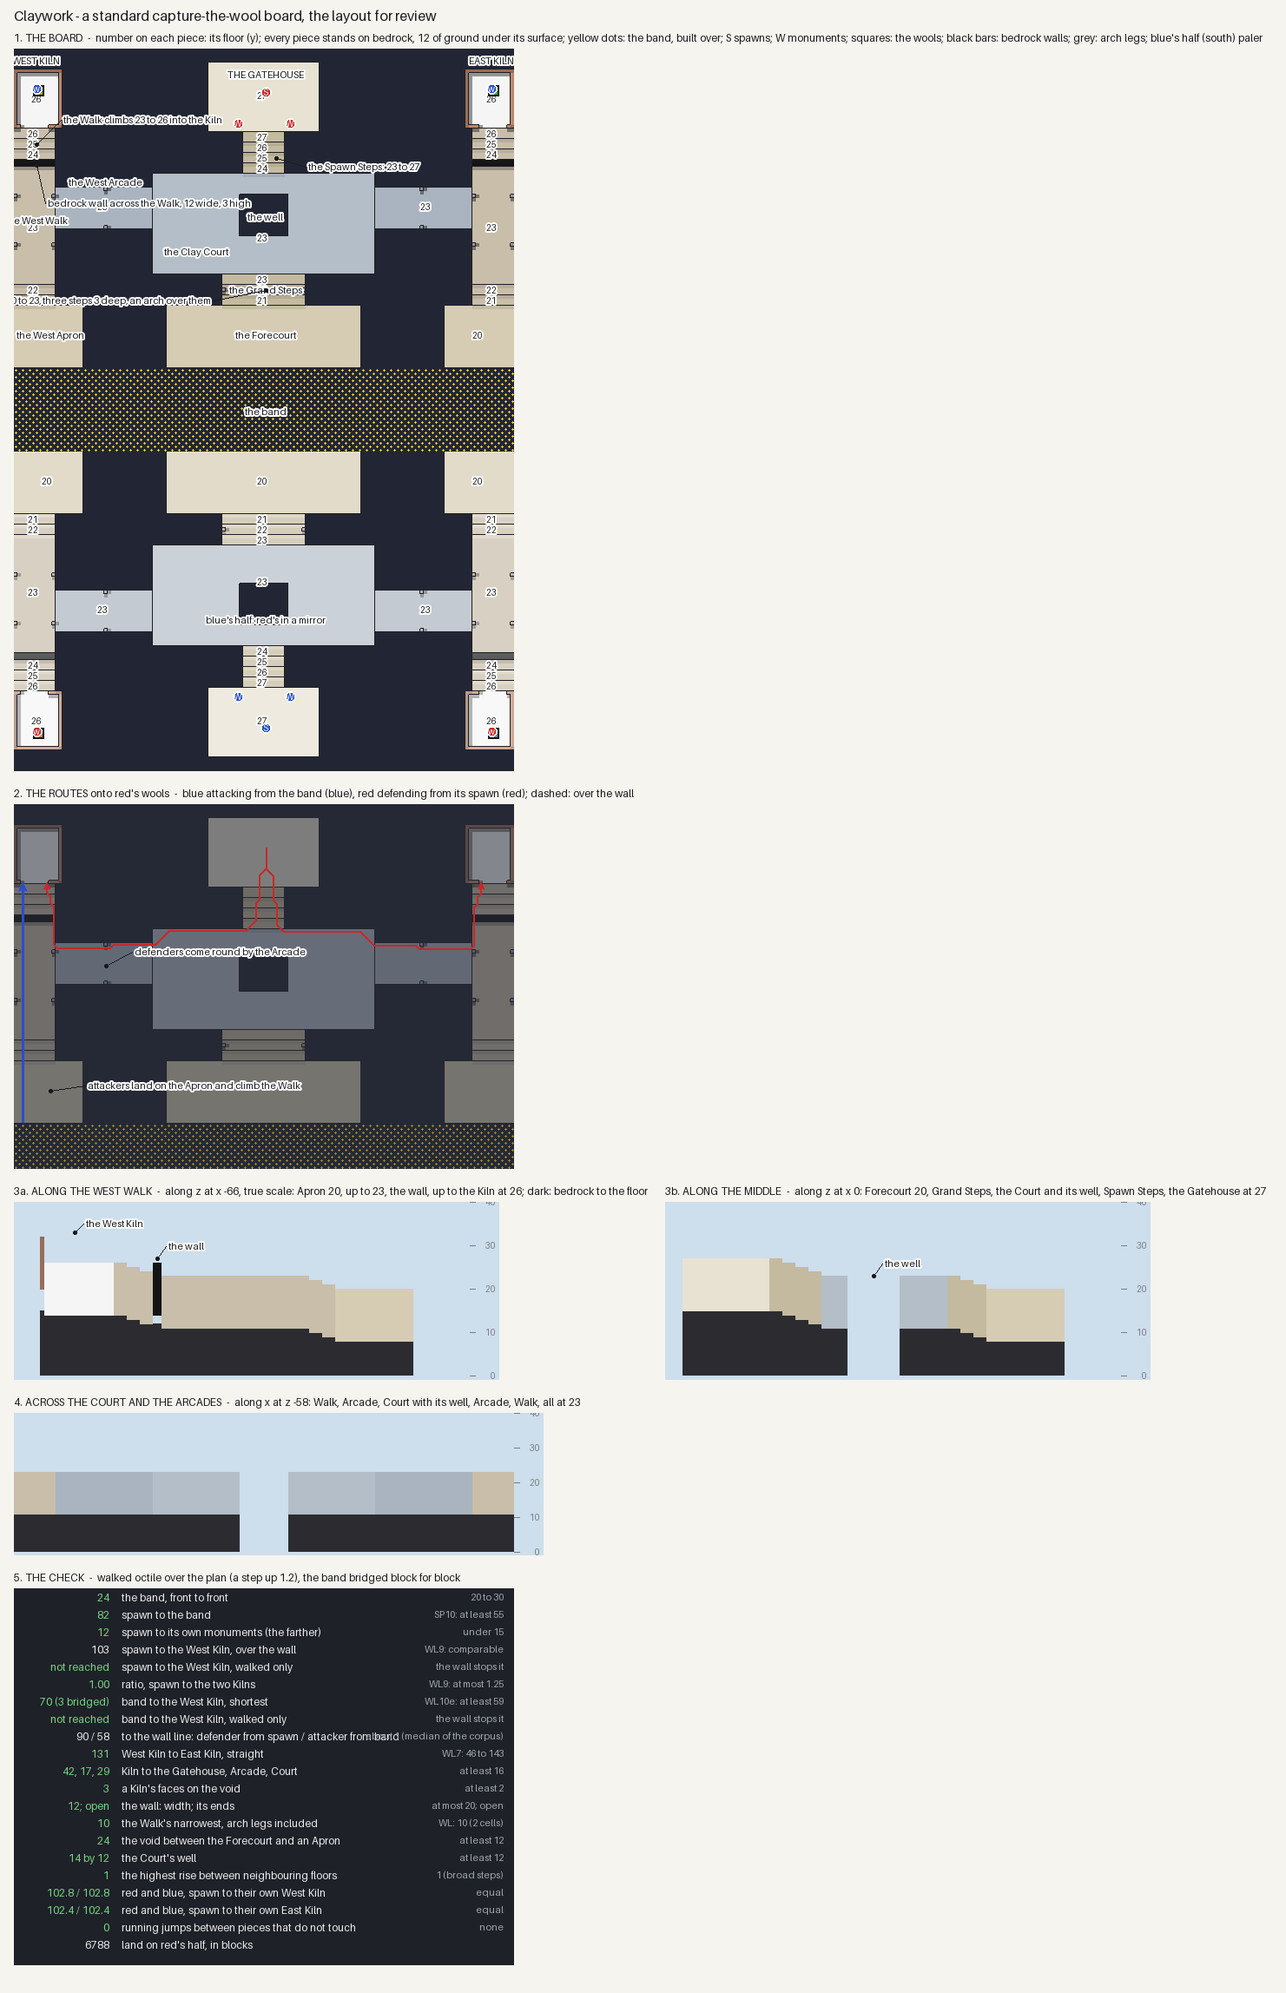
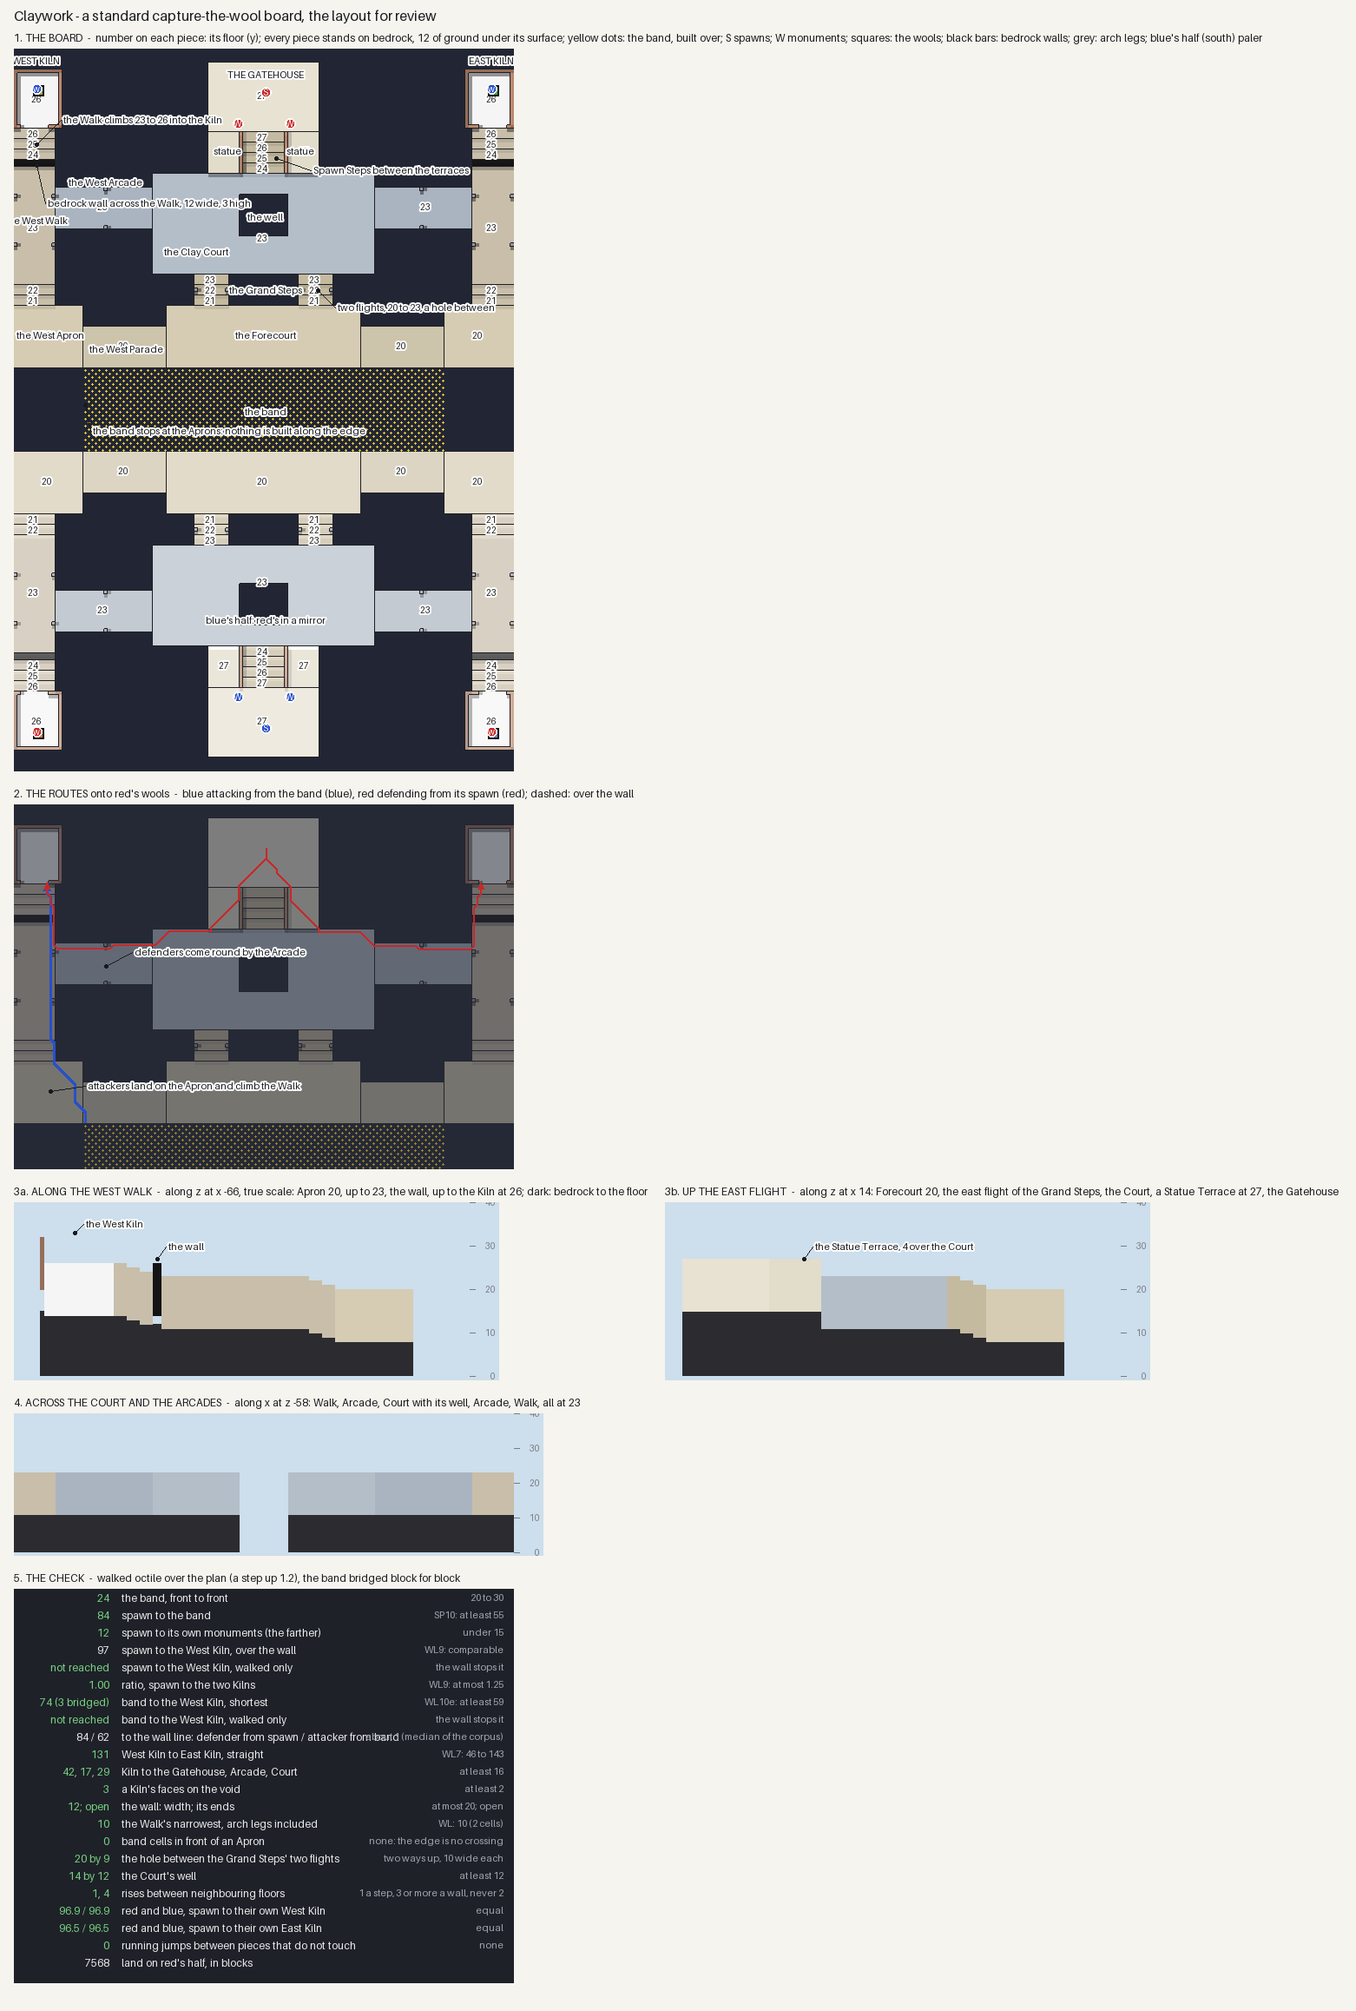
Claywork: narrower band, joined front line, split Grand Steps, Statue Terraces
The band stops at the Aprons' inner edges and the Parades join the
Forecourt to each Apron, so the board's edge is no crossing. The Grand
Steps are two flights round a hole; the Gatehouse runs out to the Court
as two Statue Terraces with the Spawn Steps cut between them and a
parapet along each edge. Every check row passes; v1 sketch kept.

Claude-Session: https://claude.ai/code/session_01JFykgZF2FRCqGGugXE9LUG

Changed region(s): [[0.0, 0.0, 0.9629, 0.99]]

diff --git a/freeform/lib/boards/claywork/scripts/plan.py b/freeform/lib/boards/claywork/scripts/plan.py
@@ -7,9 +7,9 @@ mirror images across x = -0.5, so the two wools of a team are walked the same.
 
 The levels step up from the front to the back in broad steps, each one block up and three blocks deep:
 
-    the front       the Forecourt and the two Aprons at 20, on the band
-    the hub         the Clay Court at 23, up the Grand Steps; a well in its middle
-    the spawn       the Gatehouse at 27, up the Spawn Steps; the monuments on its front edge
+    the front       the Forecourt, the two Parades and the two Aprons at 20, one line; the band before the middle
+    the hub         the Clay Court at 23, up the two flights of the Grand Steps; a well in its middle
+    the spawn       the Gatehouse at 27 and its two Statue Terraces out to the Court, the Spawn Steps cut between
     the wings       the Arcades at 23, from the Court out to the Walks
     the walks       the West and East Walks: up from each Apron (20 to 23), along to the Kilns (23 to 26)
     the wools       the West and East Kilns at 26, in the back corners, each behind a bedrock wall across its Walk
@@ -52,11 +52,13 @@ def mx(x):
 # low edge, from h_low (the first row) to h_high (the rest).
 PIECES = [
     ("front", "the Forecourt", (-28, -30, 27, -13), FRONT),
+    ("parade", "the West Parade", (-52, -24, -29, -13), FRONT),
     ("apron", "the West Apron", (-72, -30, -53, -13), FRONT),
-    ("steps", "the Grand Steps", (-12, -39, 11, -31), ("steps", -31, FRONT + 1, HUB, "n")),
+    ("steps", "the Grand Steps, west flight", (-20, -39, -11, -31), ("steps", -31, FRONT + 1, HUB, "n")),
     ("hub", "the Clay Court", (-32, -68, 31, -40), HUB),
     ("neck", "the Spawn Steps", (-6, -80, 5, -69), ("steps", -69, HUB + 1, SPAWN, "n")),
     ("spawn", "the Gatehouse", (-16, -100, 15, -81), SPAWN),
+    ("terrace", "the West Statue Terrace", (-16, -80, -7, -69), SPAWN),
     ("wing", "the West Arcade", (-60, -64, -33, -53), HUB),
     ("walk", "the West Walk", (-72, -81, -61, -31), None),     # its floor is WALK_FLOORS
     ("kiln", "the West Kiln", (-72, -98, -59, -82), WOOL),
@@ -74,25 +76,27 @@ KILN = (-72, -98, -59, -82)
 KILN_DOOR = (-70, -63)
 # arches: a span over a way, legs one block wide on its edges, clear to ARCH_CLEAR over the floor
 ARCH_CLEAR = 5
-ARCHES = [("the Steps arch", "x", (-12, 11), -35), ("the Walk's first arch", "x", (-72, -61), -48),
+ARCHES = [("the Grand Steps' arch", "x", (-20, -11), -35), ("the Walk's first arch", "x", (-72, -61), -48),
           ("the Walk's second arch", "x", (-72, -61), -62), ("the Arcade arch", "z", (-64, -53), -46)]
 
-# the band: void a player may build over, between the two Forecourts
-BAND = (-72, -12, 71, 11)
+# the band: void a player may build over, between the two front lines, from one Apron's inner edge to the other's;
+# nothing is built out in front of an Apron, so the board's edge is no crossing
+BAND = (-52, -12, 51, 11)
 
 SPAWN_AT = (0, SPAWN + 1, -92)
 MONUMENTS = [(-8, -83), (7, -83)]          # red's two, on the Gatehouse's front edge, west and east
 OBSERVER_AT = (0, 50, 0)
 
-COLOURS = {"void": (34, 38, 52), "front": (214, 204, 180), "apron": (214, 204, 180), "steps": (196, 186, 160),
+COLOURS = {"void": (34, 38, 52), "front": (214, 204, 180), "apron": (214, 204, 180), "parade": (205, 196, 172),
+           "terrace": (226, 220, 202), "parapet": (150, 110, 90), "steps": (196, 186, 160),
            "hub": (180, 190, 200), "wing": (170, 180, 192), "walk": (200, 190, 170), "neck": (196, 186, 160),
            "spawn": (232, 226, 210), "kiln": (245, 245, 245), "kilnwall": (150, 110, 90),
            "barrier": (20, 20, 20), "arch": (120, 120, 130)}
-KINDS = ["void", "front", "apron", "steps", "hub", "wing", "walk", "neck", "spawn", "kiln", "kilnwall",
+KINDS = ["void", "front", "parade", "apron", "terrace", "parapet", "steps", "hub", "wing", "walk", "neck", "spawn", "kiln", "kilnwall",
          "barrier", "arch"]
-WALK_KINDS = {"front", "apron", "steps", "hub", "wing", "walk", "neck", "spawn", "kiln"}
-PLACES = [("THE GATEHOUSE", (0, -97)), ("the Clay Court", (-20, -46)),
-          ("the well", (0, -56)), ("the Grand Steps", (0, -35)), ("the Forecourt", (0, -22)),
+WALK_KINDS = {"front", "parade", "terrace", "apron", "steps", "hub", "wing", "walk", "neck", "spawn", "kiln"}
+PLACES = [("THE GATEHOUSE", (0, -97)), ("statue", (-11, -75)), ("statue", (10, -75)), ("the Clay Court", (-20, -46)),
+          ("the well", (0, -56)), ("the Grand Steps", (0, -35)), ("the Forecourt", (0, -22)), ("the West Parade", (-40, -18)),
           ("the West Apron", (-62, -22)), ("the West Walk", (-66, -55)), ("the West Arcade", (-46, -66)),
           ("WEST KILN", (-66, -101)), ("EAST KILN", (65, -101)), ("the band", (0, 0))]
 
@@ -138,6 +142,12 @@ def plan():
                 ring = x in (kx0, kx1) or z in (kz0, kz1)
                 if ring and not (z == kz1 and dx0 <= x <= dx1):
                     R.cell(x, z, WOOL + ROOM_H, "kilnwall")
+    # a parapet two high along each Statue Terrace's edge over the Spawn Steps: the steps are cut down between the
+    # terraces, and without it a terrace's edge stands two over the stair's middle, a ledge that looks climbable
+    x0, z0, x1, z1 = P_TERRACE = PIECE["terrace"][2]
+    for x in (x1, mx(x1)):
+        for z in range(z0, z1 + 1):
+            R.cell(x, z, SPAWN + 2, "parapet")
     # the bedrock walls across the Walks, crossed only by building over them
     for sign in (1, -1):
         a, b = (WALL["x0"], WALL["x1"]) if sign > 0 else (mx(WALL["x1"]), mx(WALL["x0"]))

diff --git a/freeform/lib/boards/claywork/scripts/plan_check.py b/freeform/lib/boards/claywork/scripts/plan_check.py
@@ -28,7 +28,7 @@ def graph(R, wall=True, band=True):
         cross |= P.band_mask(R)
     if wall:
         cross |= R.mask("barrier")
-    return G.graph(R, P.WALK_KINDS, wall_kinds=("kilnwall", "arch"),
+    return G.graph(R, P.WALK_KINDS, wall_kinds=("kilnwall", "arch", "parapet"),
                    rules=G.PlanRules(jumps=False, diagonals=True), bridge=cross)
 
 
@@ -122,12 +122,19 @@ def measure():
     # the largest step between neighbouring walkable floors: broad steps keep every rise to one
     walk = G.walkable(R, P.WALK_KINDS)[0]
     H = R.H.astype(int)
-    rise = 0
+    rises = set()
     for ax in (0, 1):
         both = (walk[1:, :] & walk[:-1, :]) if ax == 0 else (walk[:, 1:] & walk[:, :-1])
-        rise = max(rise, int(np.abs(np.diff(H, axis=ax))[both].max()))
+        rises |= set(np.unique(np.abs(np.diff(H, axis=ax))[both]).tolist())
+    twos = 2 in rises
+    # the void in front of an Apron is not built over: no band cell touches the Apron's front edge
+    bm = P.band_mask(R)
+    ax0, _, ax1, _ = P.PIECE["apron"][2]
+    before_apron = int(bm[R.ix(ax0):R.ix(ax1) + 1, R.iz(-12)].sum())
+    sx0 = P.PIECE["steps"][2][2] + 1
+    hole_w = P.mx(sx0) - sx0 + 1
     # running jumps between pieces that do not touch
-    J = G.jumps(R, P.WALK_KINDS, wall_kinds=("kilnwall", "arch", "barrier"))
+    J = G.jumps(R, P.WALK_KINDS, wall_kinds=("kilnwall", "arch", "barrier", "parapet"))
     lab, _ = ndimage.label(R.piece != R.kinds["void"])
     apart = sum(1 for a, b, g in J if lab[R.ix(a[0]), R.iz(a[1])] != lab[R.ix(b[0]), R.iz(b[1])])
     land_red = int((land & (R.Z < 0)).sum())
@@ -154,10 +161,11 @@ def measure():
         (f"{wx1 - wx0 + 1}; {'open' if ends_open else 'land'}", "the wall: width; its ends",
          "at most 20; open", wx1 - wx0 + 1 <= 20 and ends_open),
         (f"{cut}", "the Walk's narrowest, arch legs included", "WL: 10 (2 cells)", cut == 10),
-        (f"{gap(P.PIECE['front'][2], apron_box):.0f}", "the void between the Forecourt and an Apron",
-         "at least 12", gap(P.PIECE['front'][2], apron_box) >= 12),
+        (f"{before_apron}", "band cells in front of an Apron", "none: the edge is no crossing", before_apron == 0),
+        (f"{hole_w} by 9", "the hole between the Grand Steps' two flights", "two ways up, 10 wide each", True),
         ("14 by 12", "the Court's well", "at least 12", True),
-        (f"{rise}", "the highest rise between neighbouring floors", "1 (broad steps)", rise <= 1),
+        (", ".join(str(r) for r in sorted(rises) if r), "rises between neighbouring floors",
+         "1 a step, 3 or more a wall, never 2", not twos),
         (f"{s_w:.1f} / {blue_w:.1f}", "red and blue, spawn to their own West Kiln", "equal",
          abs(s_w - blue_w) < 0.01),
         (f"{s_e:.1f} / {blue_e:.1f}", "red and blue, spawn to their own East Kiln", "equal",

diff --git a/freeform/lib/boards/claywork/scripts/sketch.py b/freeform/lib/boards/claywork/scripts/sketch.py
@@ -19,7 +19,7 @@ with open(os.path.join(HERE, "..", "renders", "plan-check.json")) as f:
     check = json.load(f)
 paths = {k: [tuple(c) for c in v] for k, v in check["paths"].items()}
 blue_half = (lambda x, z: z >= 0)
-PIECE_KINDS = ["front", "apron", "steps", "hub", "wing", "walk", "neck", "spawn", "kiln"]
+PIECE_KINDS = ["front", "parade", "apron", "terrace", "steps", "hub", "wing", "walk", "neck", "spawn", "kiln"]
 
 
 def wool_colour(name):
@@ -44,8 +44,9 @@ for o in O.of(Wool):
     m.rect(x - 1, z - 1, x + 1, z + 1, fill=wool_colour(o.color), outline=(20, 20, 20), width=2)
 m.objectives(O.markers())
 m.callout(-66, -71, "bedrock wall across the Walk, 12 wide, 3 high", dx=-10, dz=44)
-m.callout(0, -35, "the Grand Steps: 20 to 23, three steps 3 deep, an arch over them", dx=60, dz=12)
-m.callout(3, -73, "the Spawn Steps: 23 to 27", dx=34, dz=10)
+m.callout(15, -35, "two flights, 20 to 23, a hole between", dx=20, dz=20)
+m.callout(3, -73, "Spawn Steps between the terraces", dx=40, dz=14)
+m.callout(-52, -2, "the band stops at the Aprons: nothing is built along the edge", dx=6, dz=30)
 m.callout(-66, -77, "the Walk climbs 23 to 26 into the Kiln", dx=28, dz=-28)
 
 # 2. the routes onto red's west wool
@@ -82,13 +83,13 @@ a.level(P.MAX_BUILD, f"build to y {P.MAX_BUILD}")
 a.callout(-71, 27, "the wall", dx=10, dy=-14)
 a.callout(-90, 33, "the West Kiln", dx=10, dy=-10)
 
-b = SectionPanel(-104, 0, 0, 40, scale=5, title="ALONG THE MIDDLE",
-                 legend="along z at x 0: Forecourt 20, Grand Steps, the Court and its well, Spawn Steps, "
-                        "the Gatehouse at 27")
-bedrock(b, "z", 0, -104, 0)
-b.raster(R, "z", 0, COL, depth=P.GROUND)
+b = SectionPanel(-104, 0, 0, 40, scale=5, title="UP THE EAST FLIGHT",
+                 legend="along z at x 14: Forecourt 20, the east flight of the Grand Steps, the Court, "
+                        "a Statue Terrace at 27, the Gatehouse")
+bedrock(b, "z", 14, -104, 0)
+b.raster(R, "z", 14, COL, depth=P.GROUND)
 b.level(P.MAX_BUILD, f"build to y {P.MAX_BUILD}")
-b.callout(-56, 23, "the well", dx=10, dy=-14)
+b.callout(-72, 27, "the Statue Terrace, 4 over the Court", dx=10, dy=-14)
 
 c = SectionPanel(P.X_MIN, P.X_MAX, 0, 40, scale=4, title="ACROSS THE COURT AND THE ARCADES",
                  legend="along x at z -58: Walk, Arcade, Court with its well, Arcade, Walk, all at 23")

diff --git a/freeform/lib/boards/claywork/PLAN.md b/freeform/lib/boards/claywork/PLAN.md
@@ -22,14 +22,19 @@ floors anywhere is more than one block.
 
 | Level | Floor | Pieces |
 |---|---|---|
-| The front | 20 | the Forecourt, the West and East Aprons |
+| The front | 20 | the Forecourt, the West and East Parades, the West and East Aprons: one line |
 | The hub | 23 | the Clay Court, the Arcades, the Walks' long stretch |
 | The wools | 26 | the West and East Kilns |
-| The spawn | 27 | the Gatehouse |
+| The spawn | 27 | the Gatehouse and its two Statue Terraces |
 
-**The routes are three and they meet at the wall.** An attacker lands on an Apron from the band and climbs the
-Walk straight to the Kiln. A defender comes down the Spawn Steps into the Court and out along an Arcade onto the
-Walk. Both pass the bedrock wall across the Walk before it climbs into the Kiln.
+**The routes meet at the wall.** An attacker crosses the band onto the Forecourt or a Parade, goes along the
+front line to an Apron and climbs the Walk to the Kiln. A defender comes down the Spawn Steps, or drops four off
+a Statue Terrace, into the Court and out along an Arcade onto the Walk. Both pass the bedrock wall across the Walk
+before it climbs into the Kiln.
+
+**The band stops at the Aprons.** It runs from one Apron's inner edge to the other's, so nothing is built out in
+front of an Apron and the board's edge is no crossing. An attacker comes in toward the middle and walks the front
+line out to a Walk, where the defence can meet them.
 
 ## The numbers
 
@@ -38,34 +43,42 @@ Walk. Both pass the bedrock wall across the Walk before it climbs into the Kiln.
 | Measure | Value | Target |
 |---|---|---|
 | The band, front to front | 24 | 20 to 30 |
-| Spawn to the band | 82 | at least 55 |
+| Spawn to the band | 84 | at least 55 |
 | Spawn to its own monuments | 12 | under 15 |
-| Band to a Kiln, the attacker's shortest | 70 | at least 59 |
-| Spawn to the two Kilns | 103 and 102 | ratio at most 1.25 |
+| Band to a Kiln, the attacker's shortest | 74 | at least 59 |
+| Spawn to the two Kilns | 97 and 97 | ratio at most 1.25 |
+| Band cells in front of an Apron | 0 | none |
+| Rises between neighbouring floors | 1 and 4 | 1 a step, 3 or more a wall, never 2 |
 | Kiln to Kiln | 131 | 46 to 143 |
 | The Walk's narrowest, arch legs included | 10 | 10, the corpus's usual funnel |
 | A Kiln's faces on the void | 3 | at least 2 |
 | Void from a Kiln to the Gatehouse, Arcade and Court | 42, 17, 29 | at least 16 |
 | The wall across the Walk | 12 wide, ends on the void | at most 20, no way round |
 
-**A defender reaches the wall line later than an attacker, 90 against 58.** The recorded matches put the ratio at
+**A defender reaches the wall line later than an attacker, 84 against 62.** The recorded matches put the ratio at
 a median of 1.0 and a mean of 1.75, with the defender farther on 44 percent of objectives, so this is ordinary.
-Moving the Arcades north toward the wall, or a second Spawn Steps toward each wing, would bring it nearer 1.
+The Statue Terraces brought it from 90 against 58: a defender drops off a terrace's front into the Court.
 
 ## The places
 
-- **The Gatehouse** (27): the spawn, 32 by 20, its two monuments on the front edge above the Spawn Steps.
-- **The Spawn Steps** (23 to 27): twelve wide, four broad steps down into the Court.
+- **The Gatehouse** (27): the spawn, 32 by 20, its two monuments at the head of the Spawn Steps.
+- **The Statue Terraces** (27): the Gatehouse carried out to the Court either side of the Spawn Steps, 10 by 12,
+  a statue on each. Their front stands four over the Court, and a parapet two high runs along their edge over the
+  steps.
+- **The Spawn Steps** (23 to 27): twelve wide, four broad steps cut down between the terraces into the Court.
 - **The Clay Court** (23): the hub, 64 by 29, with **the well** in its middle, 14 by 12 of void.
-- **The Grand Steps** (20 to 23): twenty-four wide, three broad steps down to the Forecourt, an arch over them.
+- **The Grand Steps** (20 to 23): two flights, each ten wide with three broad steps and an arch over it, either
+  side of a hole 20 by 9. Two ways up spread the traffic between the front and the Court.
 - **The Forecourt** (20): the middle of the front, 56 by 18, on the band.
-- **The West and East Aprons** (20): the front's flanks, 20 by 18, each the foot of a Walk.
+- **The West and East Parades** (20): 24 by 12, joining the Forecourt to each Apron along the band.
+- **The West and East Aprons** (20): the front's flanks, 20 by 18, each the foot of a Walk, with no band before
+  them.
 - **The West and East Arcades** (23): from the Court to the Walks, 28 by 12, an arch across each.
 - **The West and East Walks** (20 to 26): twelve wide along the board's edge, two arches across each, the
   bedrock wall where they climb to the Kiln.
 - **The West and East Kilns** (26): the wool rooms, 14 by 17, walled and roofed six high, the door eight wide.
   Red's hold yellow and lime; blue's hold orange and light blue.
-- **The band**: twenty-four blocks of void between the Forecourts, built over.
+- **The band**: twenty-four blocks of void between the two front lines, 104 wide, built over.
 
 ## The look, decided now
 
@@ -75,7 +88,7 @@ has its own mix, so a player reads their height from the floor. The steps are st
 **Arrows are set into the surface pointing the way forward.** They are laid in stone in the clay, from the
 Gatehouse to the Grand Steps, from the Court along each Arcade, and up each Walk to its Kiln.
 
-**Arches span the Grand Steps, each Arcade and each Walk twice.** They are stone brick, five clear of the floor,
+**Arches span each flight of the Grand Steps, each Arcade and each Walk twice.** They are stone brick, five clear of the floor,
 with legs a block wide on the way's edges. The legs are what narrow a Walk from twelve to ten.
 
 **The faces of every piece are layered, so tall bedrock does not show as one slab.** Under the twelve blocks of
@@ -95,3 +108,16 @@ door frames.
 
 **Cover is the one thing that changes play, so its places are fixed before the build.** It goes on the Forecourt
 and the Court only, two blocks high, never on a Walk or an Arcade.
+
+## What changed after the first review
+
+**The first layout is kept as `renders/00-plan-sketch-v1.png`.** Three changes came from the review.
+
+- **The band was narrowed to stop at the Aprons, and the front line joined up.** The Parades join the Forecourt to
+  each Apron. Players can no longer cross along the board's edge, so they come in toward the middle and the flanks
+  can be held.
+- **The Grand Steps became two flights with a hole between.** Two ways up spread the traffic between the front and
+  the Court.
+- **The Gatehouse was carried out to the Court as two Statue Terraces.** The Spawn Steps are now cut down between
+  them, with room for a statue on each. A parapet along each edge keeps a terrace from standing two over the
+  stair's middle, a ledge that would look climbable.
